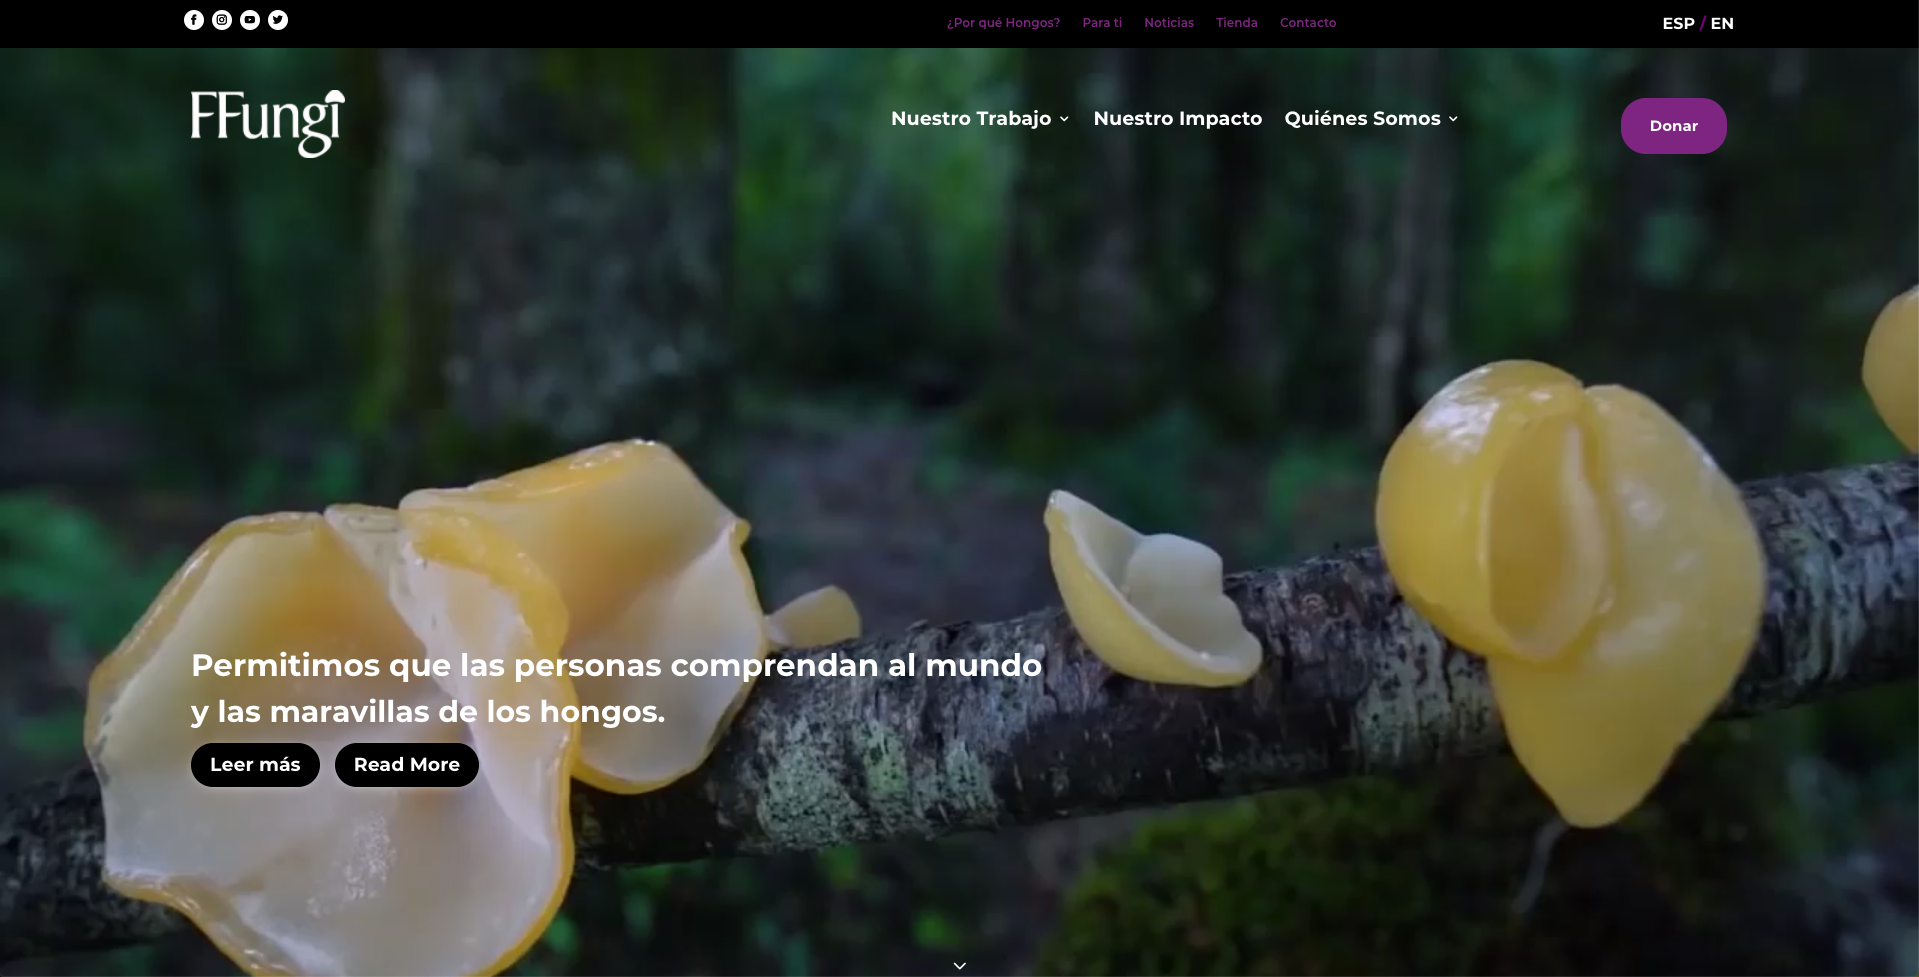
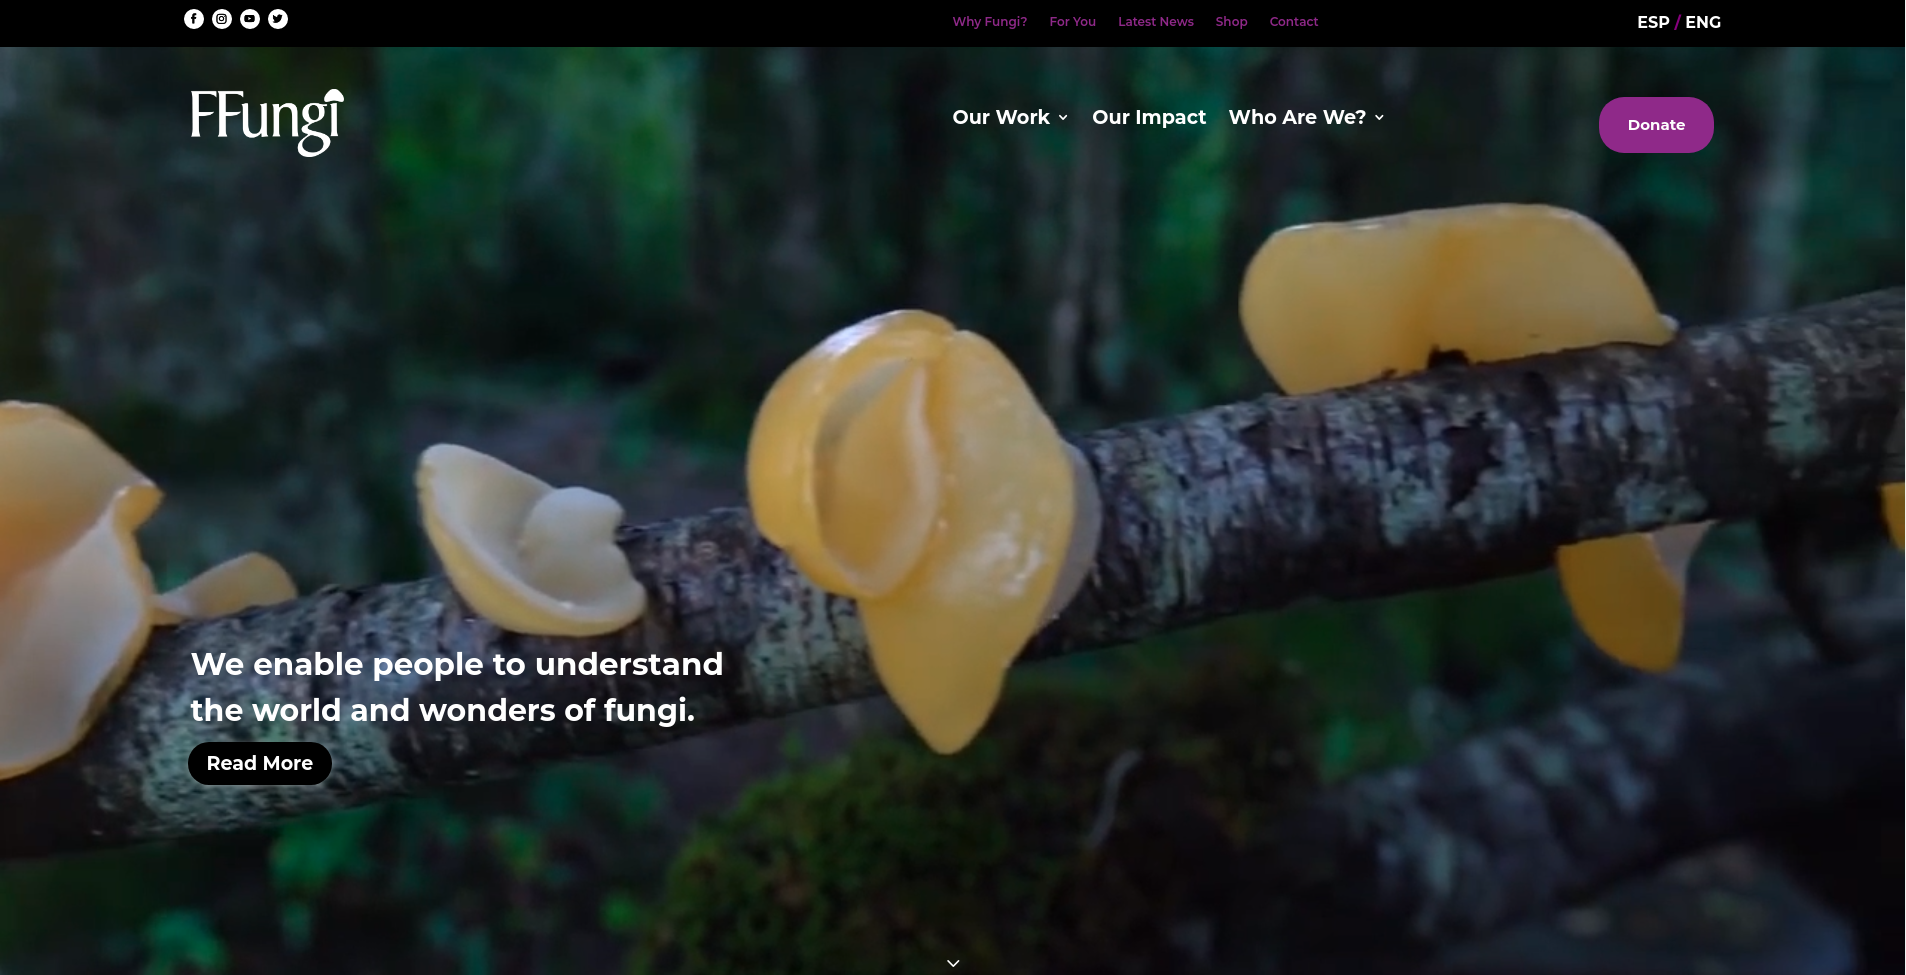
ADD: background image in english. fallback to other fonts

diff --git a/craco.config.js b/craco.config.js
@@ -15,10 +15,10 @@ module.exports = {
       // During development style-loader is used
       if (webpackConfig.mode === 'development') {
         // Check the loader we're about to overwrite looks like what we expect
-        if (!loader.loader.match(/style-loader/)) {
-          throw new Error(
-            'expected mini-css-extract-plugin at .module.rules[2].oneOf[3].use[0]'
-          )
+        if (!loader?.loader?.match(/style-loader/)) {
+          // throw new Error(
+          //   'expected mini-css-extract-plugin at .module.rules[2].oneOf[3].use[0]'
+          // )
         }
 
         // convert from string to object with options

diff --git a/src/EveryMonth/style.css b/src/EveryMonth/style.css
@@ -92,7 +92,8 @@
   grid-template-rows: 1fr max-content;
 
   box-sizing: border-box;
-  font-family: "Basis Grotesque Pro";
+  font-family: "Basis Grotesque Pro", -apple-system, BlinkMacSystemFont, "Segoe UI", Oxygen-Sans, Ubuntu, Cantarell,
+    "Helvetica Neue", Roboto, sans-serif;
   font-weight: normal;
   line-height: 1.2;
   transition: all 0.2s;
